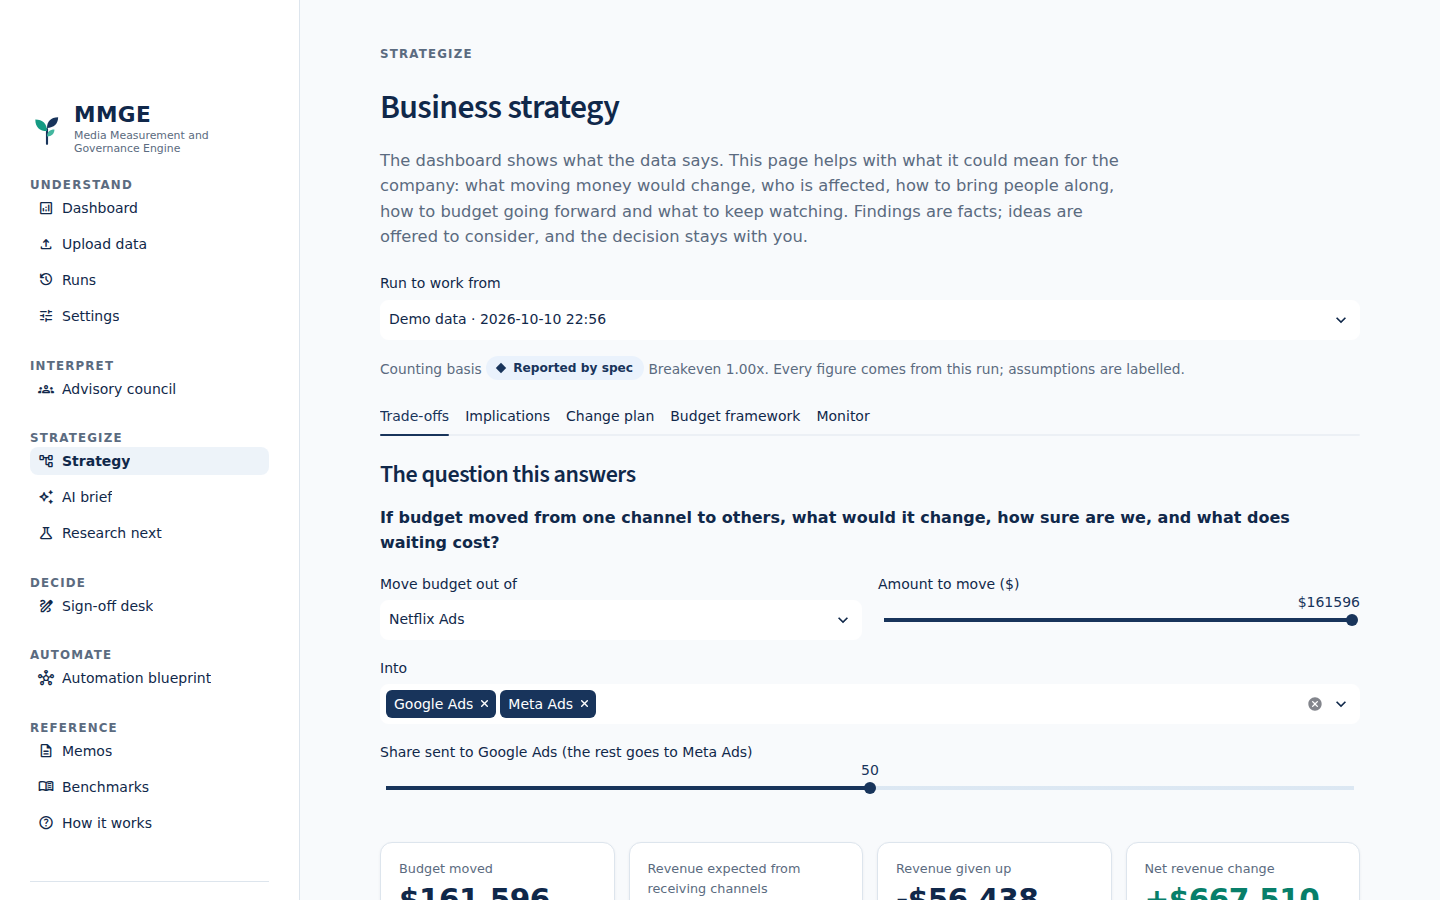
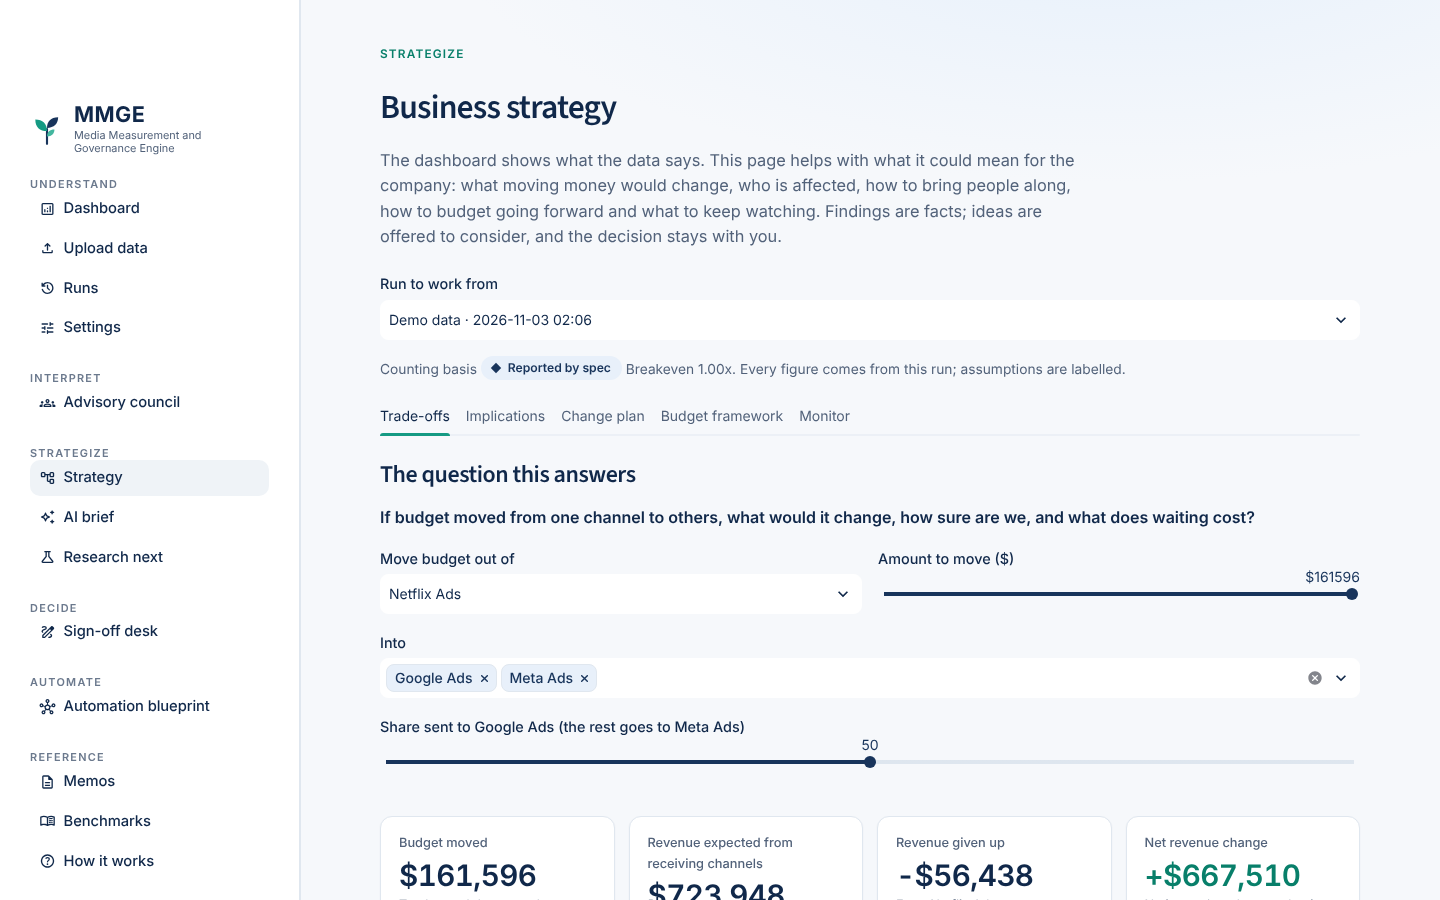
Light mode refinement: palette, depth, navigation, controls, focus, tables and chart polish (no copy changes)
Claude-Session: https://claude.ai/code/session_01E2dNAjPTL2vyoZQArjoSxL

diff --git a/app/ui.py b/app/ui.py
@@ -14,14 +14,14 @@ import pandas as pd
 import streamlit as st
 
 # ------------------------------------------------------------------------------------------- tokens
-LIGHT: Dict[str, str] = dict(bg="#F8FAFC", card="#FFFFFF", surface="#F4F7FA", surface2="#F1F6FB", border="#DDE5ED", ink="#10284A", muted="#5B6B80",
-                             accent="#18345B", accent2="#24466F", accent_soft="#EAF2FC", ok="#087F6A", ok_bg="#E5F5F0", ok_mid="#159A83", warn="#8A5A00", warn_bg="#FFF5DE",
-                             bad="#B23B43", bad_bg="#FDEBEC", grid="#E6ECF2", claimed="#4E8FE7", model="#8D82D8", proven="#159A83",
-                             hero_a="#F1F6FB", hero_b="#FFFFFF", shadow="rgba(16,40,74,.06)")
-DARK: Dict[str, str] = dict(bg="#0E1A2E", card="#14233B", surface="#122038", surface2="#1A2C47", border="#27395A", ink="#E6EDF7", muted="#9FB0C6",
+LIGHT: Dict[str, str] = dict(bg="#F6F8FB", card="#FFFFFF", surface="#F1F5F9", surface2="#EDF3FA", border="#E0E7EF", border_strong="#C7D2DF", ink="#10284A", muted="#52627A",
+                             accent="#18345B", accent2="#24466F", accent_soft="#E8F0FA", ok="#087F6A", ok_bg="#E4F5F0", ok_mid="#159A83", warn="#96500A", warn_bg="#FFF4DB",
+                             bad="#B3333B", bad_bg="#FDEAEB", grid="#EBF0F5", claimed="#4E8FE7", model="#8D82D8", proven="#159A83",
+                             hero_a="#EFF5FB", hero_b="#FFFFFF", shadow="rgba(16,40,74,.06)", shadow2="rgba(16,40,74,.10)", ring="rgba(21,154,131,.32)", glow="#E6F0FB")
+DARK: Dict[str, str] = dict(bg="#0E1A2E", card="#14233B", surface="#122038", surface2="#1A2C47", border="#27395A", border_strong="#3A5078", ink="#E6EDF7", muted="#9FB0C6",
                             accent="#8FB0FF", accent2="#B4CAFF", accent_soft="#1B2E52", ok="#5FD1B3", ok_bg="#10332D", ok_mid="#43B69F", warn="#F0C25E", warn_bg="#3A2F12",
                             bad="#FF9AA0", bad_bg="#3D1A1E", grid="#233450", claimed="#6FA5F0", model="#A89FE6", proven="#43B69F",
-                            hero_a="#16263F", hero_b="#0E1A2E", shadow="rgba(0,0,0,.25)")
+                            hero_a="#16263F", hero_b="#0E1A2E", shadow="rgba(0,0,0,.25)", shadow2="rgba(0,0,0,.35)", ring="rgba(95,209,179,.40)", glow="#132238")
 # Okabe-Ito based channel colors: distinguishable under the common forms of color blindness
 CHANNEL_COLORS = {"Google Ads": "#E69F00", "Meta Ads": "#0072B2", "TikTok Ads": "#009E73", "Netflix Ads": "#CC79A7"}
 FALLBACK = ["#56B4E9", "#D55E00", "#F0E442", "#999999"]
@@ -108,7 +108,7 @@ h5 {{font-weight: 600; font-size: 1.08rem; margin-bottom: .1rem;}}
 .brief .facts .l {{font-size: .74rem; color: {t['muted']}; line-height: 1.35; margin-top: 2px;}}
 .brief .conf {{margin-top: auto; padding-top: 14px; border-top: 1px solid {t['border']}; font-size: .84rem; color: {t['muted']}; display: flex; gap: 8px; align-items: center; flex-wrap: wrap;}}
 .brief .conf span:nth-child(2) {{flex: 1 1 170px;}}
-.brief .conf a {{margin-left: auto; color: {t['accent']}; font-weight: 600; text-decoration: none;}}
+.brief .conf a {{flex-basis: 100%; margin: 2px 0 0 24px; color: {t['accent']}; font-weight: 600; text-decoration: none;}}
 .brief .conf a:hover {{text-decoration: underline;}}
 @media (max-width: 900px) {{ .brief {{grid-template-columns: 1fr;}} .brief .main {{padding: 22px 22px;}} }}
 .sec {{margin: 3.6rem 0 1rem; scroll-margin-top: 70px;}}
@@ -176,6 +176,67 @@ table.mm {{border-collapse: collapse; width: 100%; font-size: .9rem;}} table.mm 
   letter-spacing: .05em; text-transform: uppercase; border-bottom: 1px solid {t['border']}; padding: 8px 10px;}}
 table.mm td {{padding: 9px 10px; border-bottom: 1px solid {t['border']}; font-variant-numeric: tabular-nums;}}
 @media (max-width: 760px) {{ .hero {{padding: 26px 20px;}} .sec h2 {{font-size: 1.4rem;}} .trio {{grid-template-columns: 1fr;}} .brief .facts {{grid-template-columns: 1fr;}} }}
+
+/* ---- light refinement: depth, rhythm, controls, focus ---- */
+html {{-webkit-font-smoothing: antialiased; text-rendering: optimizeLegibility;}}
+.stApp {{background: radial-gradient(1100px 440px at 78% -10%, {t['glow']} 0%, transparent 62%), {t['bg']};}}
+::selection {{background: {t['ring']};}}
+:focus-visible {{outline: 2px solid {t['ok_mid']}; outline-offset: 2px; border-radius: 8px;}}
+[data-testid="stSidebar"] {{background: {t['card']}; box-shadow: 1px 0 0 {t['border']};}}
+[data-testid="stSidebar"] hr {{border-color: {t['border']}; margin: 1rem 0;}}
+[data-testid="stSidebar"] [data-testid="stPageLink-NavLink"] {{border-radius: 10px; padding: .2rem .6rem; margin: 0; min-height: 2.1rem; transition: background-color .18s ease-out, transform .18s ease-out;}}
+[data-testid="stSidebar"] [data-testid="stPageLink-NavLink"]:hover {{background: {t['surface']}; transform: translateX(1px);}}
+[data-testid="stSidebar"] [data-testid="stPageLink-NavLink"] p {{font-size: .92rem; font-weight: 500; letter-spacing: -0.005em;}}
+[data-testid="stSidebar"] .kicker {{font-size: .68rem; letter-spacing: .12em; color: {t['muted']}; opacity: .85;}}
+[data-testid="stMain"] [data-testid="stPageLink-NavLink"] {{display: inline-flex; border: 1px solid {t['border']}; border-radius: 10px; padding: .4rem .8rem; background: {t['card']}; transition: border-color .18s ease-out, box-shadow .18s ease-out;}}
+[data-testid="stMain"] [data-testid="stPageLink-NavLink"]:hover {{border-color: {t['ok_mid']}; box-shadow: 0 2px 8px {t['shadow']};}}
+[data-testid="stButtonGroup"] [role="radiogroup"] {{background: {t['surface']}; border: 1px solid {t['border']}; border-radius: 12px; padding: 3px; gap: 2px; display: inline-flex;}}
+[data-testid="stButtonGroup"] button[data-variant="segmented_control"] {{border: 0 !important; background: transparent !important; border-radius: 9px !important; font-weight: 500; color: {t['muted']}; padding: .3rem .9rem; transition: background-color .18s ease-out, color .18s ease-out, box-shadow .18s ease-out;}}
+[data-testid="stButtonGroup"] button[data-variant="segmented_control"]:hover {{color: {t['ink']};}}
+[data-testid="stButtonGroup"] button[data-variant="segmented_control"][data-selected="true"] {{background: {t['card']} !important; color: {t['ink']}; font-weight: 600; box-shadow: 0 1px 3px {t['shadow2']};}}
+[data-testid="stTab"] {{font-weight: 500; color: {t['muted']}; transition: color .18s ease-out;}}
+[data-testid="stTab"]:hover {{color: {t['ink']};}}
+[data-testid="stTab"][aria-selected="true"] {{color: {t['ink']}; font-weight: 600;}}
+[data-testid="stTab"] .react-aria-SelectionIndicator {{background: {t['ok_mid']} !important; height: 3px !important; border-radius: 3px 3px 0 0;}}
+[data-testid="stExpander"] {{background: {t['card']}; box-shadow: 0 1px 2px {t['shadow']}; transition: box-shadow .18s ease-out;}}
+[data-testid="stExpander"]:hover {{box-shadow: 0 2px 8px {t['shadow']};}}
+[data-testid="stExpander"] summary {{font-weight: 500;}}
+[data-testid="stSelectbox"] [data-baseweb="select"] > div, [data-testid="stTextInput"] [data-baseweb="input"], [data-testid="stNumberInput"] [data-baseweb="input"],
+[data-testid="stTextArea"] [data-baseweb="textarea"] {{background: {t['card']}; border-color: {t['border_strong']}; border-radius: 10px; transition: border-color .18s ease-out, box-shadow .18s ease-out;}}
+[data-testid="stSelectbox"] [data-baseweb="select"] > div:hover, [data-testid="stTextInput"] [data-baseweb="input"]:hover {{border-color: {t['accent2']};}}
+[data-testid="stSelectbox"] [data-baseweb="select"] > div:focus-within, [data-testid="stTextInput"] [data-baseweb="input"]:focus-within, [data-testid="stNumberInput"] [data-baseweb="input"]:focus-within,
+[data-testid="stTextArea"] [data-baseweb="textarea"]:focus-within {{border-color: {t['ok_mid']}; box-shadow: 0 0 0 3px {t['ring']};}}
+[data-testid="stWidgetLabel"] p {{font-weight: 500; font-size: .9rem;}}
+[data-testid="stMultiSelect"] [data-tag] {{background: {t['accent_soft']} !important; color: {t['accent']} !important; border: 1px solid {t['border']}; border-radius: 8px !important; font-weight: 500;}}
+[data-testid="stMultiSelect"] [data-tag] span, [data-testid="stMultiSelect"] [data-tag] svg {{color: {t['accent']} !important;}}
+.stButton > button[kind="primary"], .stDownloadButton > button[kind="primary"] {{box-shadow: 0 1px 2px {t['shadow2']};}}
+.stButton > button[kind="primary"]:hover {{box-shadow: 0 4px 12px {t['shadow2']};}}
+.stButton > button[kind="secondary"], .stDownloadButton > button {{background: {t['card']}; border: 1px solid {t['border_strong']}; color: {t['ink']};}}
+.stButton > button[kind="secondary"]:hover, .stDownloadButton > button:hover {{border-color: {t['ok_mid']}; color: {t['ink']};}}
+[data-testid="stAlert"] {{border-radius: 10px; border: 1px solid {t['border']};}}
+[data-testid="stDataFrame"] {{border: 1px solid {t['border']}; border-radius: 12px; overflow: hidden;}}
+[data-testid="stProgress"] > div > div {{border-radius: 999px;}}
+.stat {{box-shadow: 0 1px 2px {t['shadow']};}}
+.stat:hover {{box-shadow: 0 4px 14px {t['shadow']};}}
+.callout {{border-left-width: 3px; background: {t['surface2']}; font-size: .97rem;}}
+.banner {{display: flex; gap: 10px; align-items: flex-start; border: 1px solid {t['border']}; background: {t['card']}; border-radius: 10px; padding: 9px 14px; font-size: .86rem; line-height: 1.5; color: {t['muted']}; margin-bottom: 14px;}}
+.banner svg {{flex: none; margin-top: 3px; color: {t['accent2']};}}
+table.mm tbody tr {{transition: background-color .15s ease-out;}}
+table.mm tbody tr:hover {{background: {t['surface']};}}
+.tblwrap {{border: 1px solid {t['border']}; border-radius: 12px; background: {t['card']};}}
+table.mm th {{background: {t['surface']}; border-bottom: 1px solid {t['border']};}}
+table.mm tr:last-child td {{border-bottom: 0;}}
+.brief .impact {{justify-content: space-between; gap: 14px;}}
+.brief .main, .brief .impact {{box-shadow: 0 1px 2px {t['shadow']}, 0 6px 20px {t['shadow']};}}
+.brief .conf {{align-items: flex-start;}}
+.brief .conf svg {{margin-top: 2px;}}
+.page-head .kicker {{color: {t['ok']};}}
+.page-head h1 {{letter-spacing: -0.025em;}}
+.page-head p {{color: {t['muted']}; max-width: 70ch;}}
+.sec p {{max-width: 72ch;}}
+.hero {{box-shadow: 0 1px 2px {t['shadow']}, 0 6px 20px {t['shadow']};}}
+@media (max-width: 760px) {{ [data-testid="stButtonGroup"] [role="radiogroup"] {{display: flex; flex-wrap: wrap;}} .block-container {{padding-left: 1rem; padding-right: 1rem;}} }}
+@media (prefers-reduced-motion: reduce) {{ * {{transition: none !important; animation: none !important;}} }}
 </style>
 """
 
@@ -365,6 +426,12 @@ def stat_row(stats: Iterable[Dict[str, str]], compact: bool = False) -> None:
 
 def callout(text: str, kind: str = "") -> None:
     st.markdown(f'<div class="callout {kind}">{text}</div>', unsafe_allow_html=True)
+
+
+def banner(text: str) -> None:
+    """A quiet, slim notice (for example the public demo notice). Text is plain and escaped."""
+    st.markdown(f'<div class="banner"><svg width="16" height="16" viewBox="0 0 16 16" aria-hidden="true"><circle cx="8" cy="8" r="6.5" fill="none" stroke="currentColor" stroke-width="1.5"/>'
+                f'<path d="M8 7v4M8 5v.01" stroke="currentColor" stroke-width="1.6" stroke-linecap="round"/></svg><div>{html.escape(text)}</div></div>', unsafe_allow_html=True)
 
 
 def stepper(steps: Sequence[str], current: int) -> None:

diff --git a/app/charts.py b/app/charts.py
@@ -34,15 +34,15 @@ def _dark() -> bool:
 
 
 def good() -> str:
-    return "#5fd1a0" if _dark() else "#15734d"
+    return "#5fd1a0" if _dark() else "#159A83"
 
 
 def caution() -> str:
-    return "#f0c25e" if _dark() else "#b87900"
+    return "#f0c25e" if _dark() else "#D89B28"
 
 
 def danger() -> str:
-    return "#ff8f84" if _dark() else "#c0392b"
+    return "#ff8f84" if _dark() else "#D95C63"
 
 
 def padded_range(values: Iterable[float], include: Sequence[float] = (), floor_zero: bool = True,
@@ -82,8 +82,10 @@ def _layout(fig: go.Figure, title: str, subtitle: str, height: Optional[int] = N
         margin=dict(t=30, b=bottom, l=8, r=right), height=height, hovermode="closest", showlegend=legend,
         legend=dict(orientation="h", yref="container", y=0, yanchor="bottom", x=0, title_text=""),
         paper_bgcolor="rgba(0,0,0,0)", plot_bgcolor="rgba(0,0,0,0)")
-    fig.update_xaxes(showgrid=False, linecolor=t["grid"], zeroline=False)
-    fig.update_yaxes(gridcolor=t["grid"], zeroline=False)
+    fig.update_xaxes(showgrid=False, linecolor=t["border"], zeroline=False, tickfont=dict(color=t["muted"], size=12), title_font=dict(color=t["muted"], size=12))
+    fig.update_yaxes(gridcolor=t["grid"], zeroline=False, tickfont=dict(color=t["muted"], size=12), title_font=dict(color=t["muted"], size=12))
+    fig.update_layout(hoverlabel=dict(bgcolor=t["card"], bordercolor=t["border_strong"], font=dict(color=t["ink"], size=12)), legend=dict(font=dict(color=t["muted"], size=12)))
+    fig.update_traces(marker_cornerradius=4, selector=dict(type="bar"))
     return fig
 
 

diff --git a/app/app.py b/app/app.py
@@ -68,7 +68,7 @@ def names(rows) -> str:
 
 # ------------------------------------------------------------------------------ empty state (never a dead end)
 if demo_mode():
-    ui.callout(DEMO_NOTICE)
+    ui.banner(DEMO_NOTICE)
 if not runs:
     ui.hero("Media Measurement and Governance Engine", "Let's get your first measurement run started.",
             "Upload your platform and measurement files. MMGE will reconcile the inputs, check data quality and prepare the first analysis, "

diff --git a/tests/test_design_system.py b/tests/test_design_system.py
@@ -26,7 +26,7 @@ def test_three_methods_have_fixed_distinct_colours() -> None:
 
 def test_streamlit_theme_uses_the_navy_primary() -> None:
     cfg = (ROOT / ".streamlit" / "config.toml").read_text()
-    assert "#18345B" in cfg and "#F8FAFC" in cfg
+    assert "#18345B" in cfg and "#F6F8FB" in cfg
 
 
 def test_components_render_without_emoji_or_dollar_escapes_breaking(monkeypatch) -> None:

diff --git a/docs/DESIGN_SYSTEM.md b/docs/DESIGN_SYSTEM.md
@@ -19,11 +19,12 @@ Light and predominantly white. No large blocks of saturated colour.
 | Token | Value | Use |
 | --- | --- | --- |
 | `navy-950` / `navy-900` / `navy-800` | #10284A / #18345B / #24466F | Headlines, navigation, primary buttons, key controls. Trust and authority |
-| `background` | #F8FAFC | Page |
+| `background` | #F6F8FB | Page, with a faint cool glow at the top right |
 | `surface` | #FFFFFF | Cards |
-| `surface-subtle` | #F4F7FA | Quiet panels |
-| `surface-blue` | #F1F6FB | Callouts and highlighted panels |
-| `border` | #DDE5ED | Card and table borders |
+| `surface-subtle` | #F1F5F9 | Quiet panels, segmented controls |
+| `surface-blue` | #EDF3FA | Callouts and highlighted panels |
+| `border` | #E0E7EF | Hairline card and table borders |
+| `border-strong` | #C7D2DF | Inputs and secondary buttons |
 | `green-700` / `600` / `500` / `100` | #087F6A / #159A83 / #43B69F / #E5F5F0 | The decision colour: evidence supports action |
 | `blue-500` / `100` | #4E8FE7 / #EAF2FC | Analytical information, platform reported results |
 | `purple-500` / `100` | #8D82D8 / #F0EDFB | A second method, the attribution model |
@@ -78,6 +79,14 @@ Where a recommendation is shown, say where it came from: "Recommendation prepare
 The design guidance lists the trust labels Verified, Decision grade, Directional and Needs review. On screen the product uses plainer equivalents for non specialists: **Confident** (Verified), **Leaning** (Directional) and **Not yet reliable** (Needs review). The technical names remain in the Sources section and the methodology.
 
 AI is subordinate to the business decision. It is described as "Recommendations" and "Decision support", never as an autonomous agent. Specialist workers, where shown, read like review steps ("Measurement review: completed"), not characters.
+
+## 6b. Light mode refinement
+Light mode is the primary experience and follows five research backed habits of calm, trustworthy interfaces:
+1. **Depth through light, not lines.** A white card on a cool off white page, a hairline border and two soft shadows (a 1 px contact shadow and a larger diffuse one) separate surfaces without heavy outlines. Cards lift slightly on hover.
+2. **One clear action per area.** Primary buttons are navy and filled; secondary buttons are white with a stronger border; page links look like quiet buttons; the demo notice is a slim quiet strip rather than a heavy callout.
+3. **Controls that look like controls.** Segmented choices are a single rounded group with a raised selected option; tabs use a green underline; inputs share one radius and a stronger border; selected tags are soft blue chips.
+4. **Visible focus and calm motion.** A 2 px green focus ring and a soft focus halo on inputs support keyboard use; transitions are 150 to 250 ms and switch off for people who prefer reduced motion.
+5. **Rhythm and measure.** Generous spacing, line lengths capped near 70 characters, tabular figures for numbers, and a larger gap before each numbered section.
 
 ## 7. Motion
 150 to 250 ms, ease out, for card expansion, navigation, dropdowns and chart changes. No particles, glow, animated gradients, bouncing or typing effects.

diff --git a/docs/CHANGELOG.md b/docs/CHANGELOG.md
@@ -1,6 +1,12 @@
 # Changelog
 
-## Model and system integration (latest)
+## Light mode refinement (latest)
+* Light palette retuned (cooler page, hairline borders, a stronger input border, a softer amber for review states) and a faint top right glow for depth.
+* Sidebar navigation tightened with hover states; segmented controls are one rounded group with a raised selection; tabs use a green underline; inputs, selects, tags, buttons and expanders share radius, border and focus styling; the demo notice is a slim quiet strip.
+* Executive briefing impact panel and confidence line tidied; tables get a framed container and row hover; chart bars have rounded corners with lighter axis text and styled tooltips.
+* No copy was changed.
+
+## Model and system integration
 * `docs/MMM_INTEGRATION_ARCHITECTURE.md`: how holdout, geo test and audience tier evidence feeds a larger media mix model and other growth and data systems (principles, evidence inventory, prior rules, integration patterns, loop back, architecture, interface catalog, data contracts, governance, risks, validation, rollout, open decisions).
 * `python/calibration_pack.py`: the evidence pack, with log normal priors, exclusion and widening rules, lineage, hash and validation; downloadable as JSON and CSV from the Research next page.
 * Glossary, page guide, methodology, privacy and roadmap updated.
